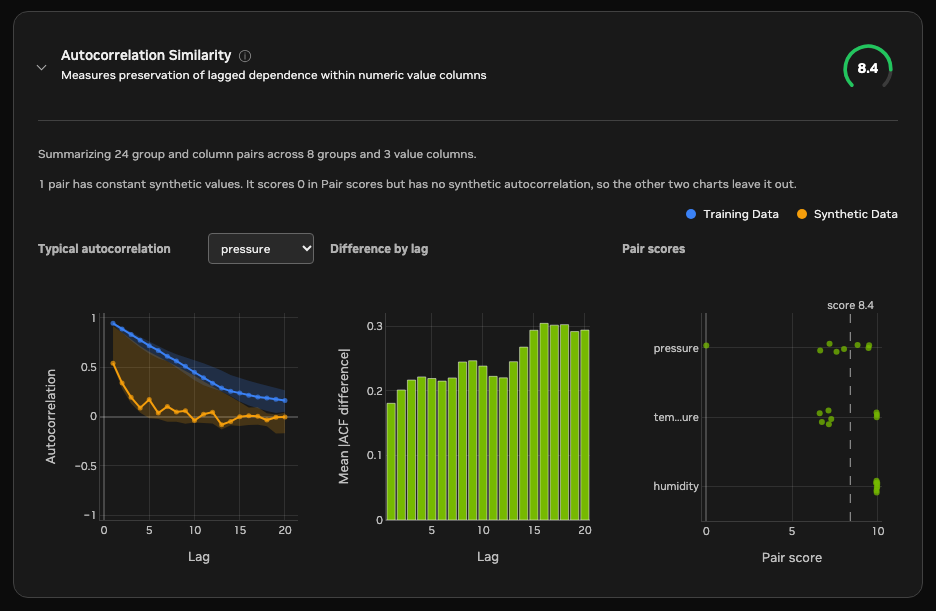
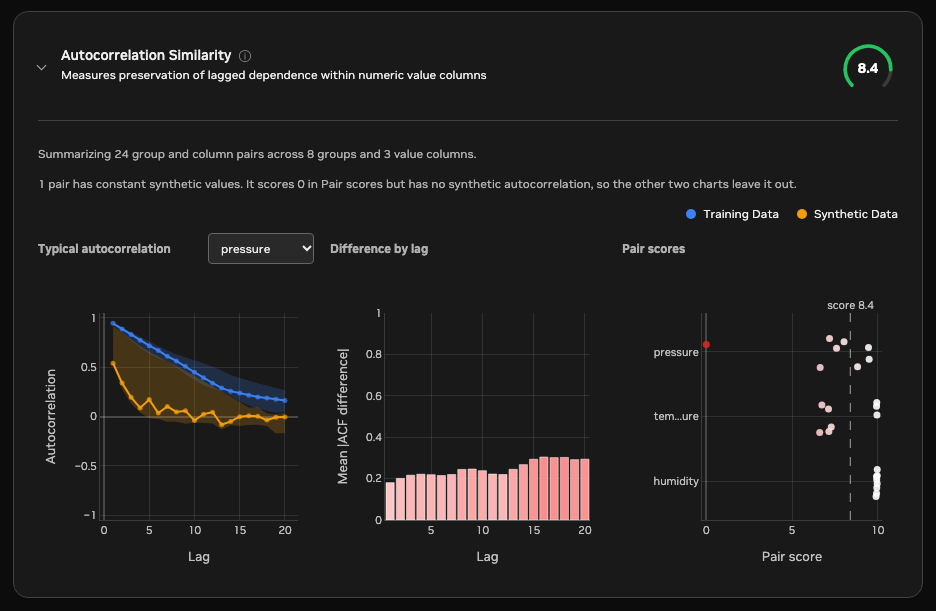
feat: shade autocorrelation difference and pair score charts white to red

diff --git a/src/nemo_safe_synthesizer/evaluation/components/autocorrelation_similarity_figures.py b/src/nemo_safe_synthesizer/evaluation/components/autocorrelation_similarity_figures.py
@@ -28,11 +28,14 @@ import plotly.graph_objects as go
 
 from ...errors import DataError
 
-_TRAINING_COLOR = "#3C2ED1"
-_SYNTHETIC_COLOR = "#1AA2E6"
+_TRAINING_COLOR = "#3b82f6"
+_SYNTHETIC_COLOR = "#f59e0b"
 _TRAINING_BAND_COLOR = "rgba(59, 130, 246, 0.2)"
 _SYNTHETIC_BAND_COLOR = "rgba(245, 158, 11, 0.2)"
-_SUMMARY_COLOR = "#76B900"
+# Matches the Correlation Stability difference heatmap in multi_modal_toggle.js.
+_DIFFERENCE_COLORSCALE = [[0, "#ffffff"], [0.25, "#fee2e2"], [0.5, "#fca5a5"], [0.75, "#f87171"], [1, "#dc2626"]]
+_LAG_DIFFERENCE_COLOR_MAX = 0.5
+_PAIR_SCORE_JITTER = 0.25
 _SUMMARY_FIGURE_HEIGHT = 300
 _LABEL_MAX_LENGTH = 10
 _LABEL_EDGE_LENGTH = 3
@@ -108,7 +111,9 @@ def generate_autocorrelation_lag_error_figure(profiles: Sequence[Mapping[str, An
     """Plot the mean absolute paired profile difference at each lag.
 
     Only lags where both profiles of a pair are finite contribute, matching
-    the lags used by the pair score.
+    the lags used by the pair score. Bars shade from white to red as the
+    difference grows, and the y-axis spans at least 0 to 1 so bar heights are
+    comparable across reports.
 
     Args:
         profiles: Stored profiles from ``AutocorrelationSimilarity.details``.
@@ -135,7 +140,12 @@ def generate_autocorrelation_lag_error_figure(profiles: Sequence[Mapping[str, An
             x=lags[valid],
             y=mean_difference[valid],
             customdata=support[valid],
-            marker={"color": _SUMMARY_COLOR},
+            marker={
+                "color": mean_difference[valid],
+                "colorscale": _DIFFERENCE_COLORSCALE,
+                "cmin": 0.0,
+                "cmax": _LAG_DIFFERENCE_COLOR_MAX,
+            },
             name="Mean absolute difference",
             hovertemplate="lag %{x}: %{y:.3f}<br>%{customdata} pairs<extra></extra>",
         )
@@ -148,7 +158,8 @@ def generate_autocorrelation_lag_error_figure(profiles: Sequence[Mapping[str, An
         yaxis_title="Mean |ACF difference|",
         margin={"l": 54, "r": 16, "t": 40, "b": 48},
     )
-    figure.update_yaxes(rangemode="tozero")
+    top = max(1.0, float(np.max(mean_difference[valid], initial=0.0)) * 1.05)
+    figure.update_yaxes(range=[0.0, top])
     return figure
 
 
@@ -161,8 +172,10 @@ def generate_autocorrelation_pair_score_figure(
     """Plot group and column pair scores on the report's 0-10 scale.
 
     Only the ``max_columns`` lowest-scoring columns are plotted so each row
-    stays readable. Rows are keyed by full column name, and long names are
-    shortened only in the axis labels so shortened names cannot merge rows.
+    stays readable. Each row sits at an integer y position with seeded
+    vertical jitter, so long names are shortened only in the axis labels and
+    shortened names cannot merge rows. Dots shade from white at a score of 10
+    to red at 0.
 
     Args:
         profiles: Stored profiles from ``AutocorrelationSimilarity.details``.
@@ -170,31 +183,36 @@ def generate_autocorrelation_pair_score_figure(
         max_columns: Largest number of value columns to plot.
 
     Returns:
-        A Plotly strip figure with one row per plotted value column.
+        A Plotly strip figure with one marker trace per plotted value column.
 
     Raises:
         DataError: If no profiles are supplied.
     """
     columns = order_autocorrelation_columns(profiles)[:max_columns]
+    rows = [str(column) for column in reversed(columns)]
+    rng = np.random.default_rng(0)
     figure = go.Figure()
     for column in columns:
         column_profiles = [item for item in profiles if item["column"] == column]
         groups = ["all rows" if item["group"] is None else str(item["group"]) for item in column_profiles]
+        similarity = np.array([float(item["similarity"]) for item in column_profiles])
+        jitter = rng.uniform(-_PAIR_SCORE_JITTER, _PAIR_SCORE_JITTER, size=len(column_profiles))
         figure.add_trace(
-            go.Box(
-                x=[10 * float(item["similarity"]) for item in column_profiles],
-                y=[str(column)] * len(column_profiles),
+            go.Scatter(
+                x=10 * similarity,
+                y=rows.index(str(column)) + jitter,
                 customdata=groups,
-                orientation="h",
-                boxpoints="all",
-                jitter=0.5,
-                pointpos=0,
-                fillcolor="rgba(0,0,0,0)",
-                line={"color": "rgba(0,0,0,0)"},
-                marker={"color": _SUMMARY_COLOR, "size": 6, "opacity": 0.75},
+                mode="markers",
+                marker={
+                    "color": 1 - similarity,
+                    "colorscale": _DIFFERENCE_COLORSCALE,
+                    "cmin": 0.0,
+                    "cmax": 1.0,
+                    "size": 7,
+                    "opacity": 0.9,
+                },
                 name=str(column),
-                hoveron="points",
-                hovertemplate="%{y}<br>group %{customdata}<br>score %{x:.1f}<extra></extra>",
+                hovertemplate="%{fullData.name}<br>group %{customdata}<br>score %{x:.1f}<extra></extra>",
             )
         )
     if overall_score is not None:
@@ -212,13 +230,12 @@ def generate_autocorrelation_pair_score_figure(
         margin={"l": 80, "r": 16, "t": 40, "b": 48},
     )
     figure.update_xaxes(range=[-0.25, 10.25])
-    rows = [str(column) for column in reversed(columns)]
     figure.update_yaxes(
-        categoryorder="array",
-        categoryarray=rows,
+        range=[-0.6, len(rows) - 0.4],
         tickmode="array",
-        tickvals=rows,
+        tickvals=list(range(len(rows))),
         ticktext=[shorten_column_label(row) for row in rows],
+        zeroline=False,
     )
     return figure
 

diff --git a/tests/evaluation/components/test_autocorrelation_similarity_figures.py b/tests/evaluation/components/test_autocorrelation_similarity_figures.py
@@ -55,6 +55,18 @@ def test_lag_error_figure_averages_only_paired_finite_lags():
     assert list(bar.x) == [1, 2, 3]
     assert list(bar.y) == pytest.approx([(0 + 0 + 0.8 + 0.2) / 4, (0 + 0 + 0.8 + 0.2) / 4, (0 + 0.2) / 2])
     assert list(bar.customdata) == [4, 4, 2]
+    assert list(bar.marker.color) == pytest.approx(list(bar.y))
+    assert bar.marker.colorscale[0][1] == "#ffffff"
+    assert bar.marker.colorscale[-1][1] == "#dc2626"
+    assert figure.layout.yaxis.range == (0.0, 1.0)
+
+
+def test_lag_error_figure_axis_grows_past_one():
+    profiles = [_profile("a", "flipped", [0.9, -0.9], [-0.9, 0.9], 0.0)]
+
+    figure = generate_autocorrelation_lag_error_figure(profiles)
+
+    assert figure.layout.yaxis.range[1] == pytest.approx(1.8 * 1.05)
 
 
 def test_pair_score_figure_plots_every_pair_on_report_scale():
@@ -63,7 +75,19 @@ def test_pair_score_figure_plots_every_pair_on_report_scale():
     assert [trace.name for trace in figure.data] == ["bad", "good"]
     assert list(figure.data[0].x) == pytest.approx([6.0, 9.0])
     assert list(figure.data[0].customdata) == ["a", "b"]
+    assert "group %{customdata}" in figure.data[0].hovertemplate
+    assert list(figure.data[0].marker.color) == pytest.approx([0.4, 0.1])
+    assert list(figure.data[1].marker.color) == pytest.approx([0.0, 0.0])
     assert figure.layout.shapes[0].x0 == 8.8
+
+
+def test_pair_score_figure_jitters_points_within_their_row():
+    figure = generate_autocorrelation_pair_score_figure(_SUMMARY_PROFILES, None)
+
+    bad, good = figure.data
+    assert all(abs(y - 1) <= 0.25 for y in bad.y)
+    assert all(abs(y) <= 0.25 for y in good.y)
+    assert list(generate_autocorrelation_pair_score_figure(_SUMMARY_PROFILES, None).data[0].y) == list(bad.y)
 
 
 def test_pair_score_figure_limits_columns_and_shortens_labels_without_merging_rows():
@@ -76,8 +100,9 @@ def test_pair_score_figure_limits_columns_and_shortens_labels_without_merging_ro
         "channel_01_descriptive_name",
         "channel_02_descriptive_name",
     ]
-    assert list(figure.layout.yaxis.tickvals) == list(reversed([trace.name for trace in figure.data]))
+    assert list(figure.layout.yaxis.tickvals) == [0, 1, 2]
     assert list(figure.layout.yaxis.ticktext) == ["cha...ame"] * 3
+    assert [round(sum(trace.y) / len(trace.y)) for trace in figure.data] == [2, 1, 0]
 
 
 @pytest.mark.parametrize(

diff --git a/docs/user-guide/time-series-metrics/autocorrelation-similarity.md b/docs/user-guide/time-series-metrics/autocorrelation-similarity.md
@@ -109,9 +109,12 @@ synthetic data reproduces sensors 0 to 2 well, loses persistence in
   training and synthetic profiles at each lag, across all value columns. Here
   the difference grows from about 0.18 at lag 1 to about 0.3 at lag 15 and
   beyond, so the loss is largest for long-range persistence. A peak at one lag
-  instead points to a missing or shifted cycle.
+  instead points to a missing or shifted cycle. The y-axis always spans at
+  least 0 to 1, so short, pale bars mean small differences, and bars turn
+  red as the difference approaches 0.5.
 - Pair scores: plots every group and column pair score on the 0–10 scale,
-  with the overall score marked by the dashed line. Each point is one sensor.
+  with the overall score marked by the dashed line. Each point is one sensor,
+  shaded from white at 10 to red at 0.
   `humidity` scores near 10 for all sensors, while `pressure` and
   `temperature` split into a cluster between about 9 and 10 for the
   well-reproduced sensors and a cluster between about 6.5 and 8 for the
